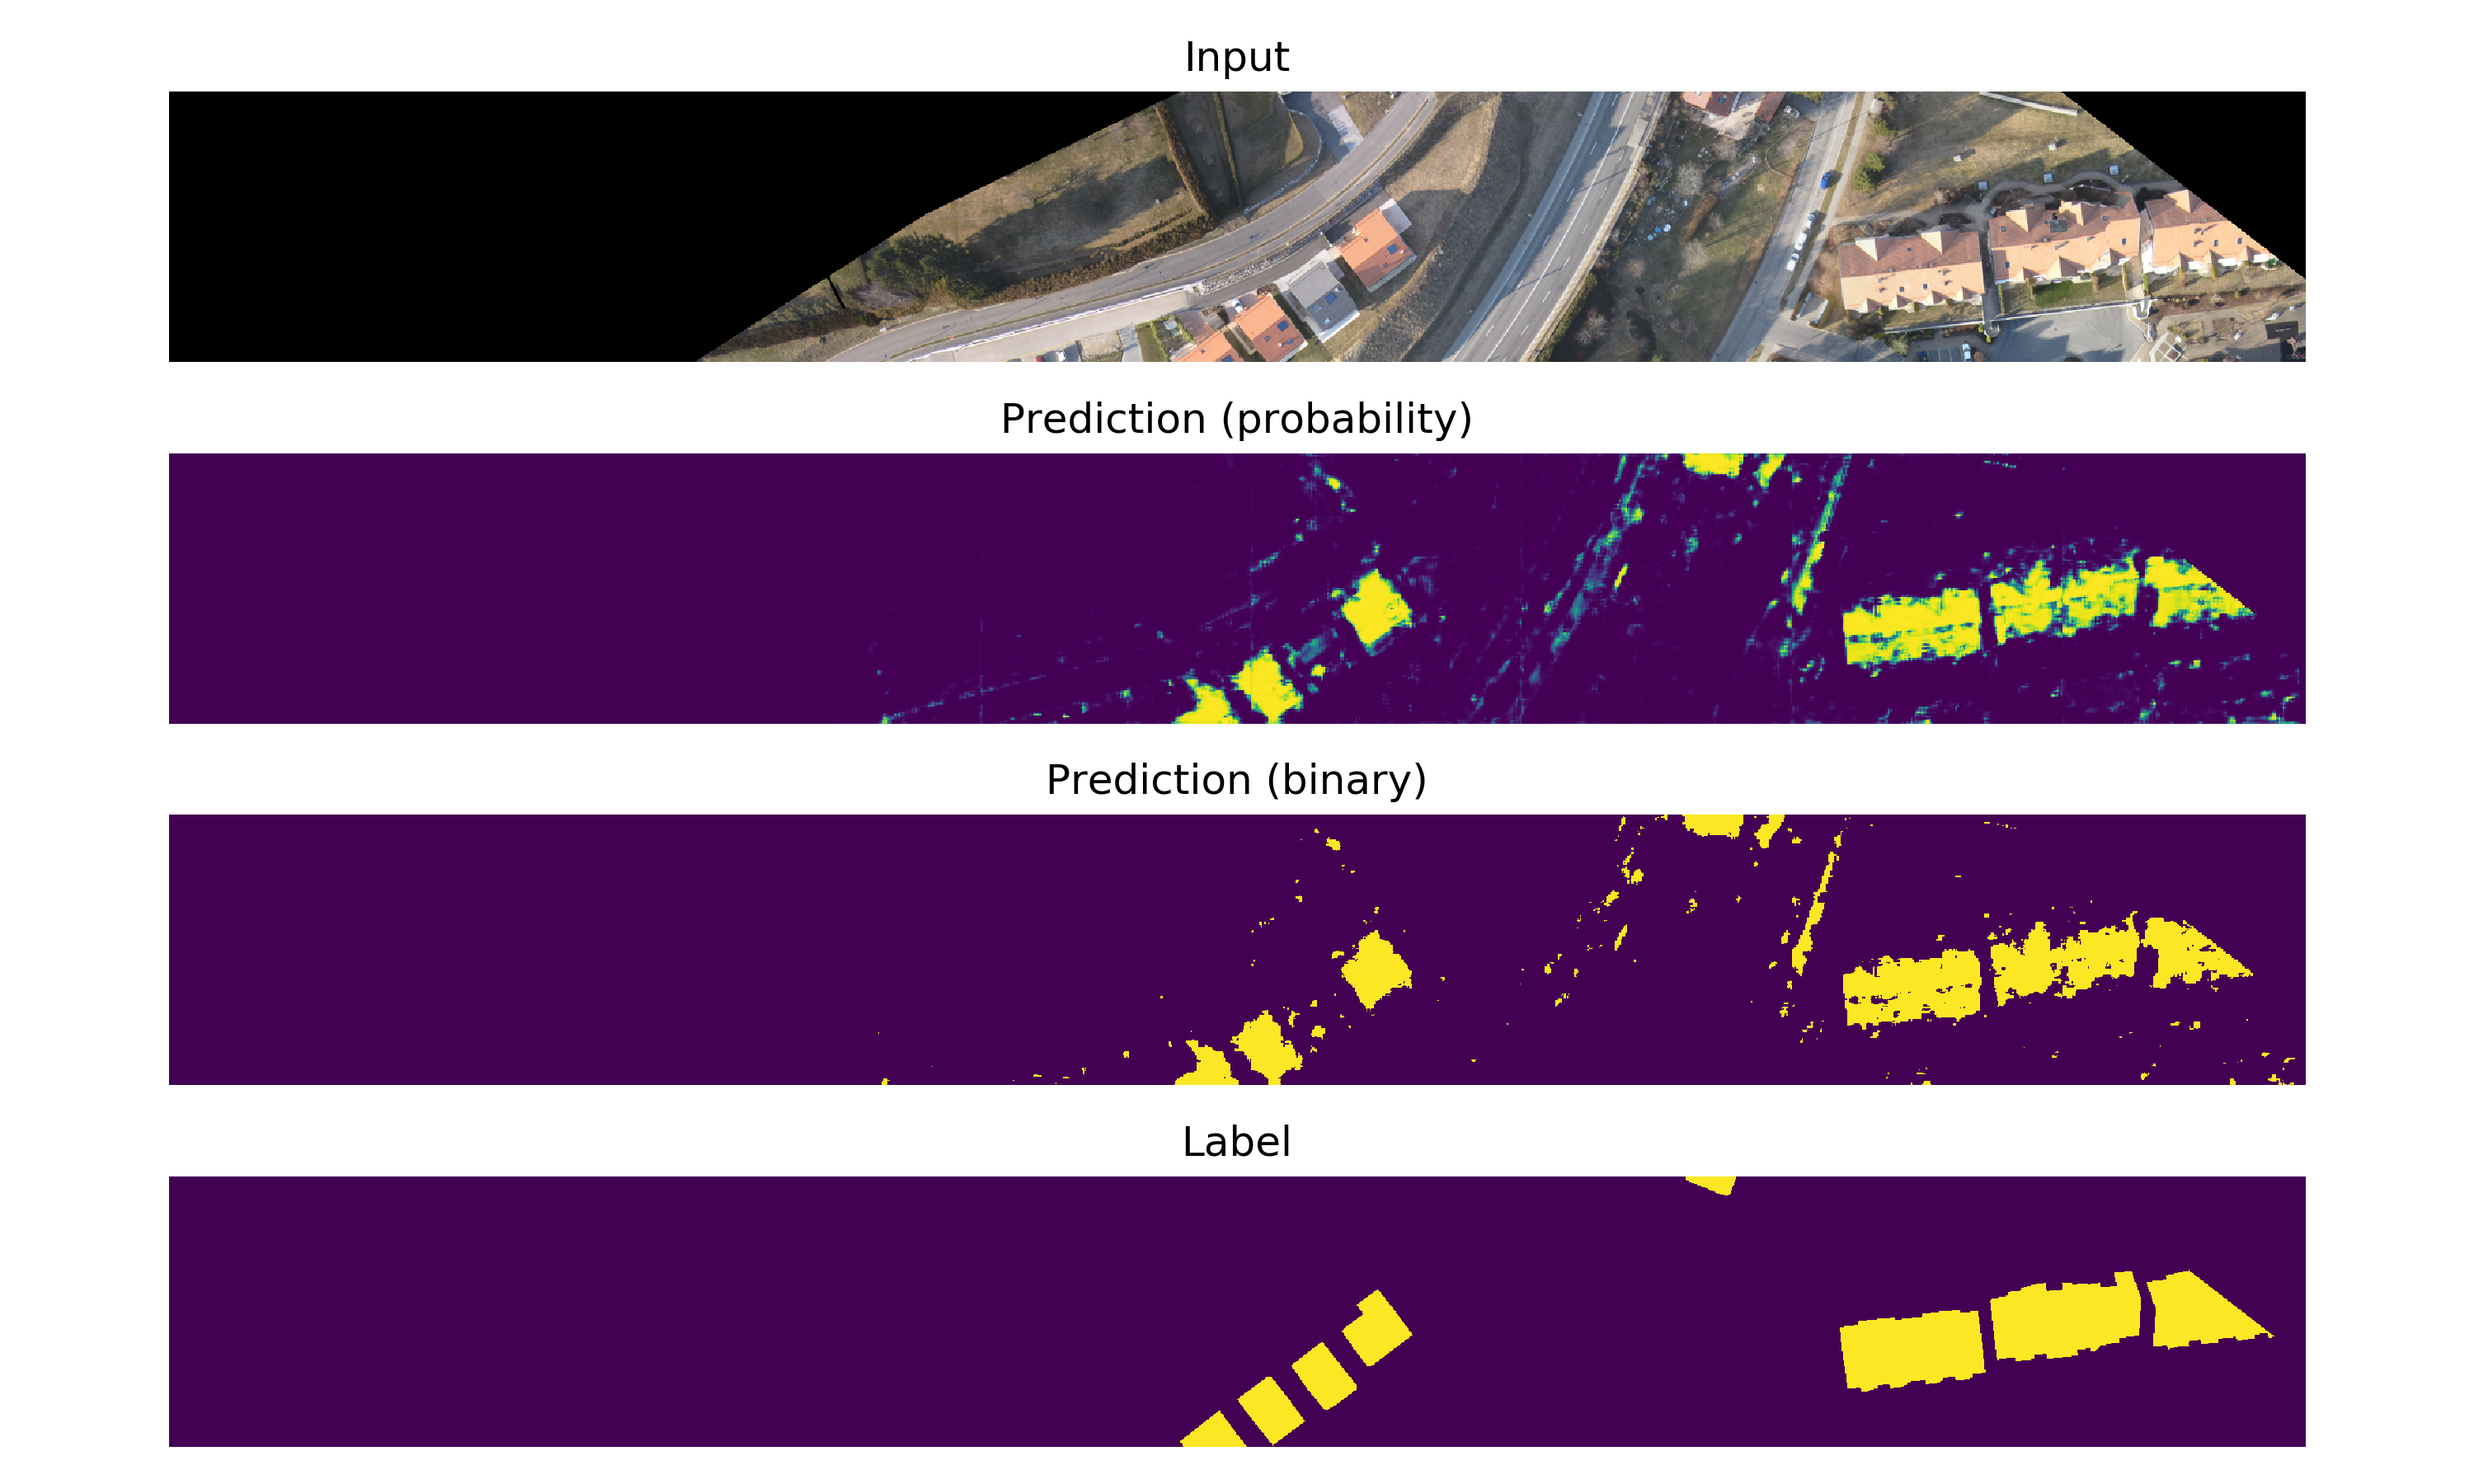
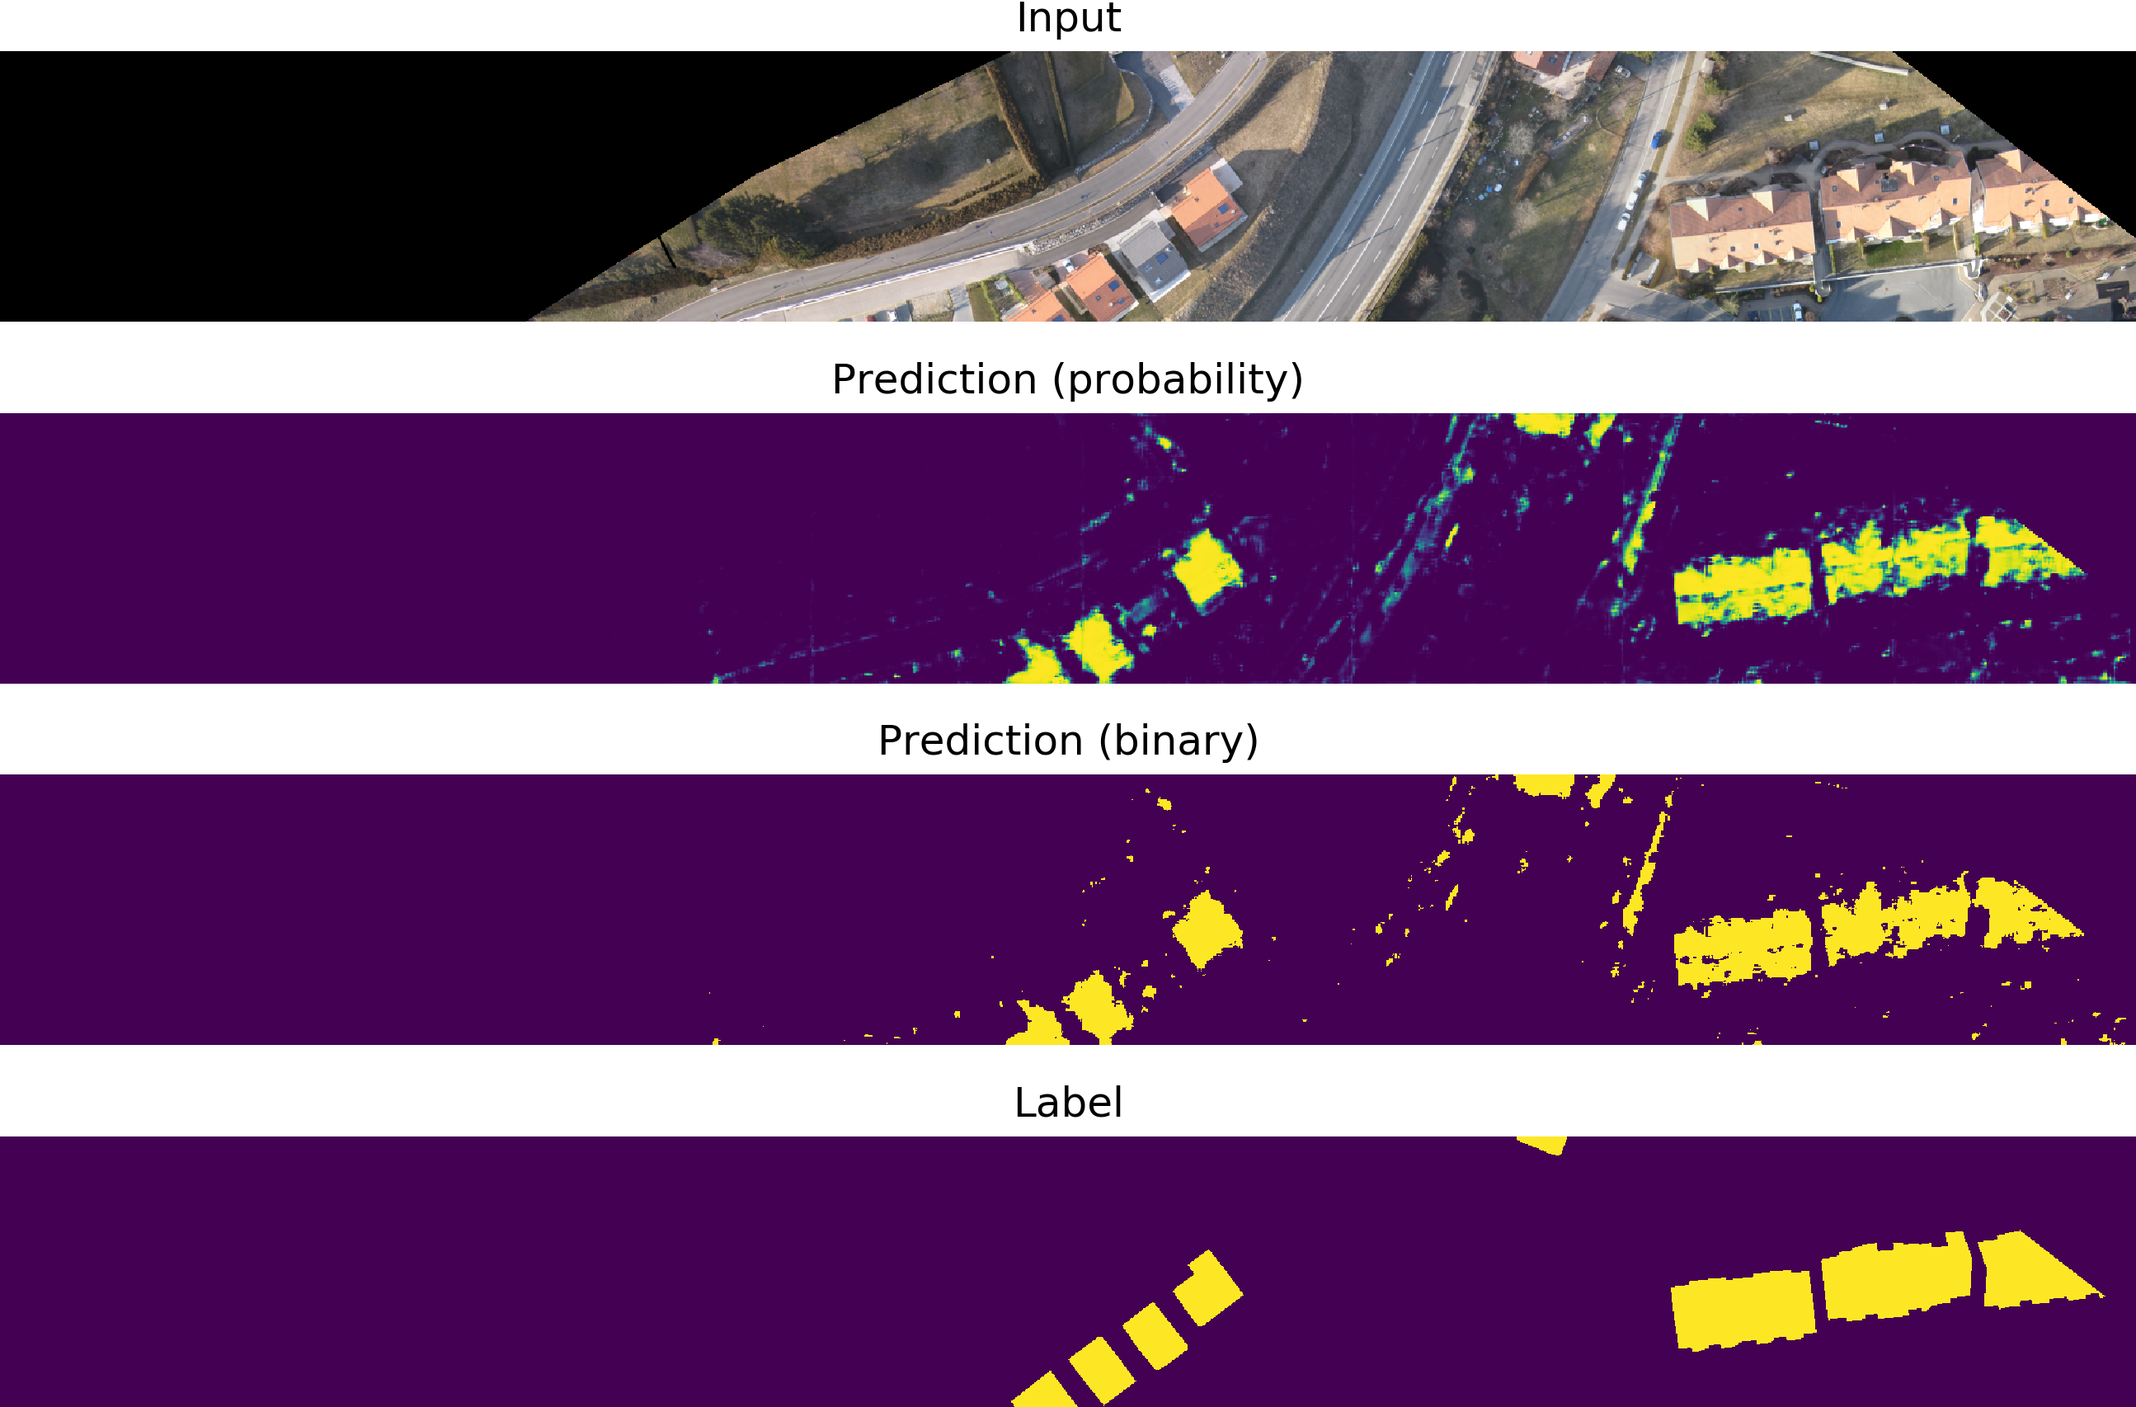
Remove borders from prediction images

diff --git a/visualise.py b/visualise.py
@@ -12,6 +12,9 @@ path = '/content/drive/My Drive/finding-houses/'
 sys.path.insert(0, path)
 from helper_functions import *
 
+# Set parameters for saving images.
+img_params = dict(dpi=300, bbox_inches='tight', transparent=True, pad_inches=0)
+
 # DATA -------------------------------------------------------------------------
 
 # Load input image, label image, predictions, in-training metric values.
@@ -50,20 +53,20 @@ axes[3].imshow(y[:256, :, 0])
 axes[3].set_title('Label')
 [ax.axis('off') for ax in axes]
 plt.tight_layout()
-plt.savefig(path+'predictions/valid_comparison.png', dpi=300)
+plt.savefig(path+'predictions/valid_comparison.png', **img_params)
 
 # Show predictions (probabilities) on whole input image.
 plt.imshow(yhat[:, :, 0])
 plt.axis('off')
 plt.colorbar()
-plt.savefig(path+'predictions/train_valid_proba.png', dpi=300)
+plt.savefig(path+'predictions/train_valid_proba.png', **img_params)
 
 # Show predictions (binary) on whole input image.
 plt.imshow(yhat[:, :, 0]>0.5)
 plt.axis('off')
-plt.savefig(path+'predictions/train_valid_binary_rgb.png', dpi=300)
+plt.savefig(path+'predictions/train_valid_binary_rgb.png', **img_params)
 
 # Show predictions (binary, black and white) on whole input image.
 plt.imshow(yhat[:, :, 0]>0.5, cmap='Greys')
 plt.axis('off')
-plt.savefig(path+'predictions/train_valid_binary_bw.png', dpi=300)
+plt.savefig(path+'predictions/train_valid_binary_bw.png', **img_params)

diff --git a/predict.py b/predict.py
@@ -8,7 +8,7 @@ from tensorflow.keras.preprocessing.image import load_img
 # Set base filepath. Import helper functions.
 path = '/content/drive/My Drive/finding-houses/'
 sys.path.insert(0, path)
-from helper_functions import *
+from helper_functions import * 
 
 # DATA -------------------------------------------------------------------------
 
